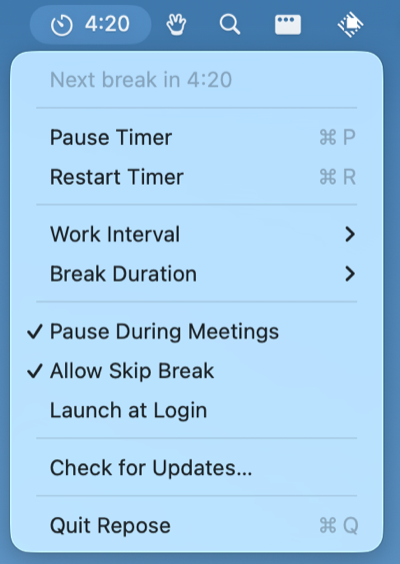
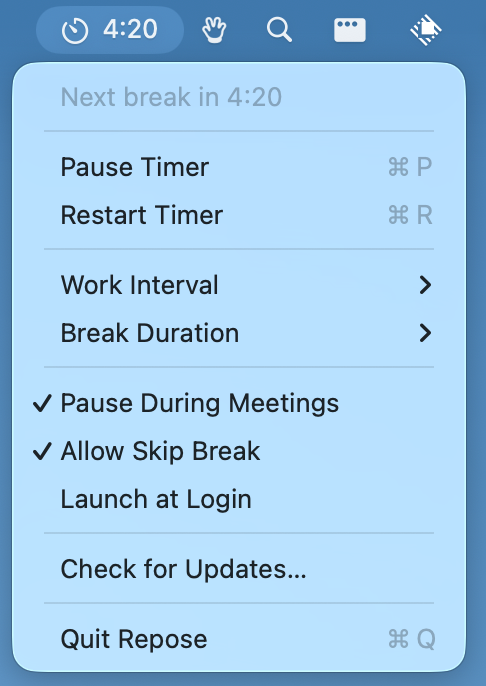
Use higher resolution images in README

diff --git a/README.md b/README.md
@@ -9,8 +9,8 @@ Break reminder for macOS that lives in your menu bar.
 <br><br>
 
 <a href="https://github.com/fikrikarim/repose/releases/latest">
-  <p><img src="assets/break-overlay.png" width="600" alt="Repose break screen"></p>
-  <p><img src="assets/menu.png" width="300" alt="Repose menu"></p>
+  <p><img src="assets/break-overlay.png" alt="Repose break screen"></p>
+  <p><img src="assets/menu.png" alt="Repose menu"></p>
 </a>
 
 You set a work interval and a break duration. Repose counts down in the menu bar, and when it hits zero, your screen goes dark and tells you to look away. When the break's over, the cycle starts again.
